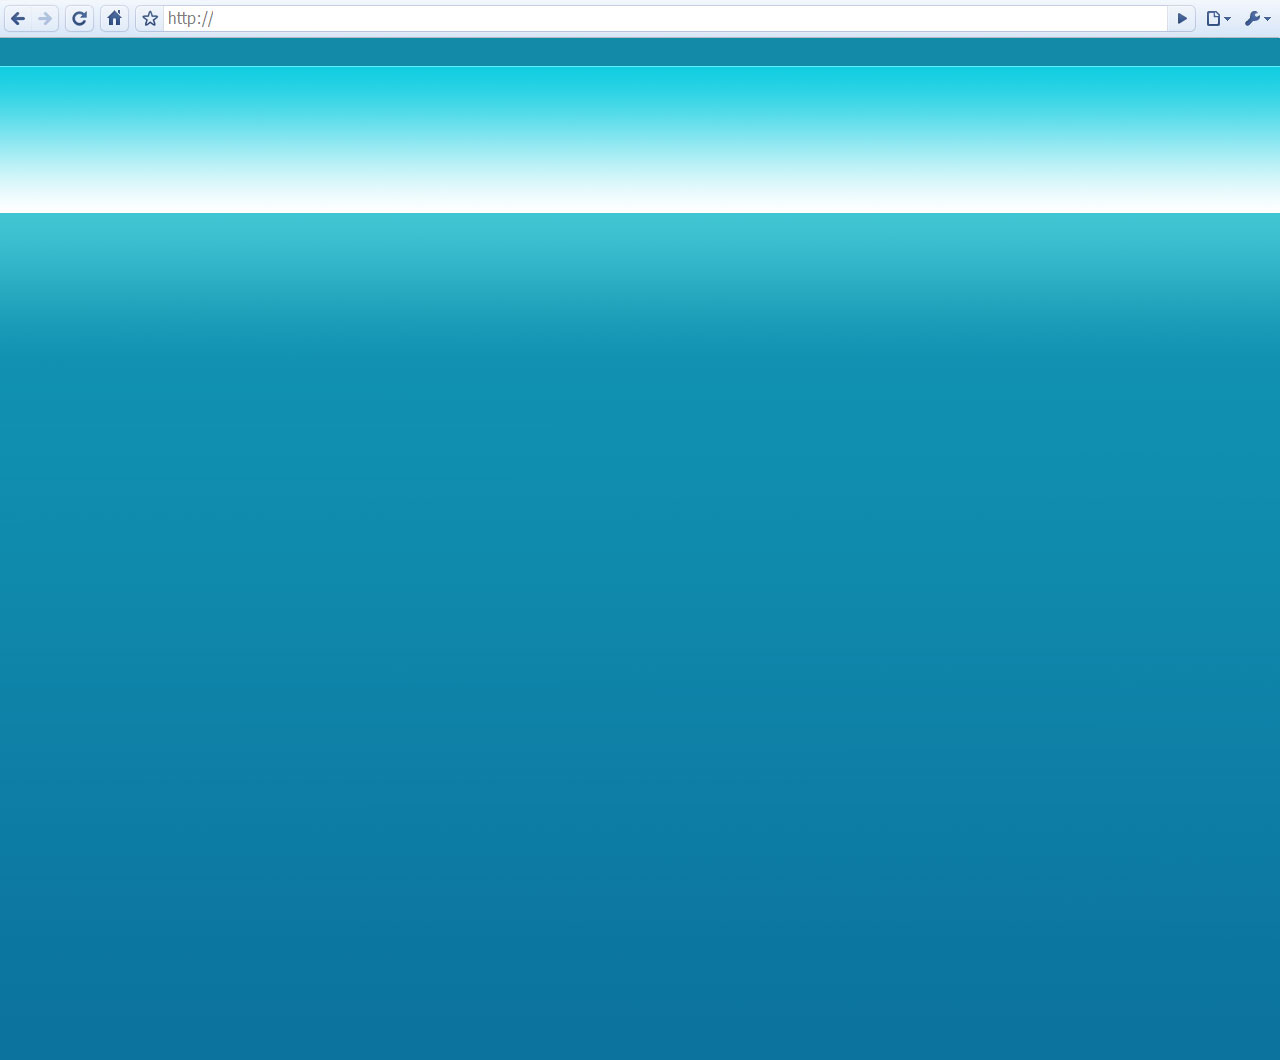
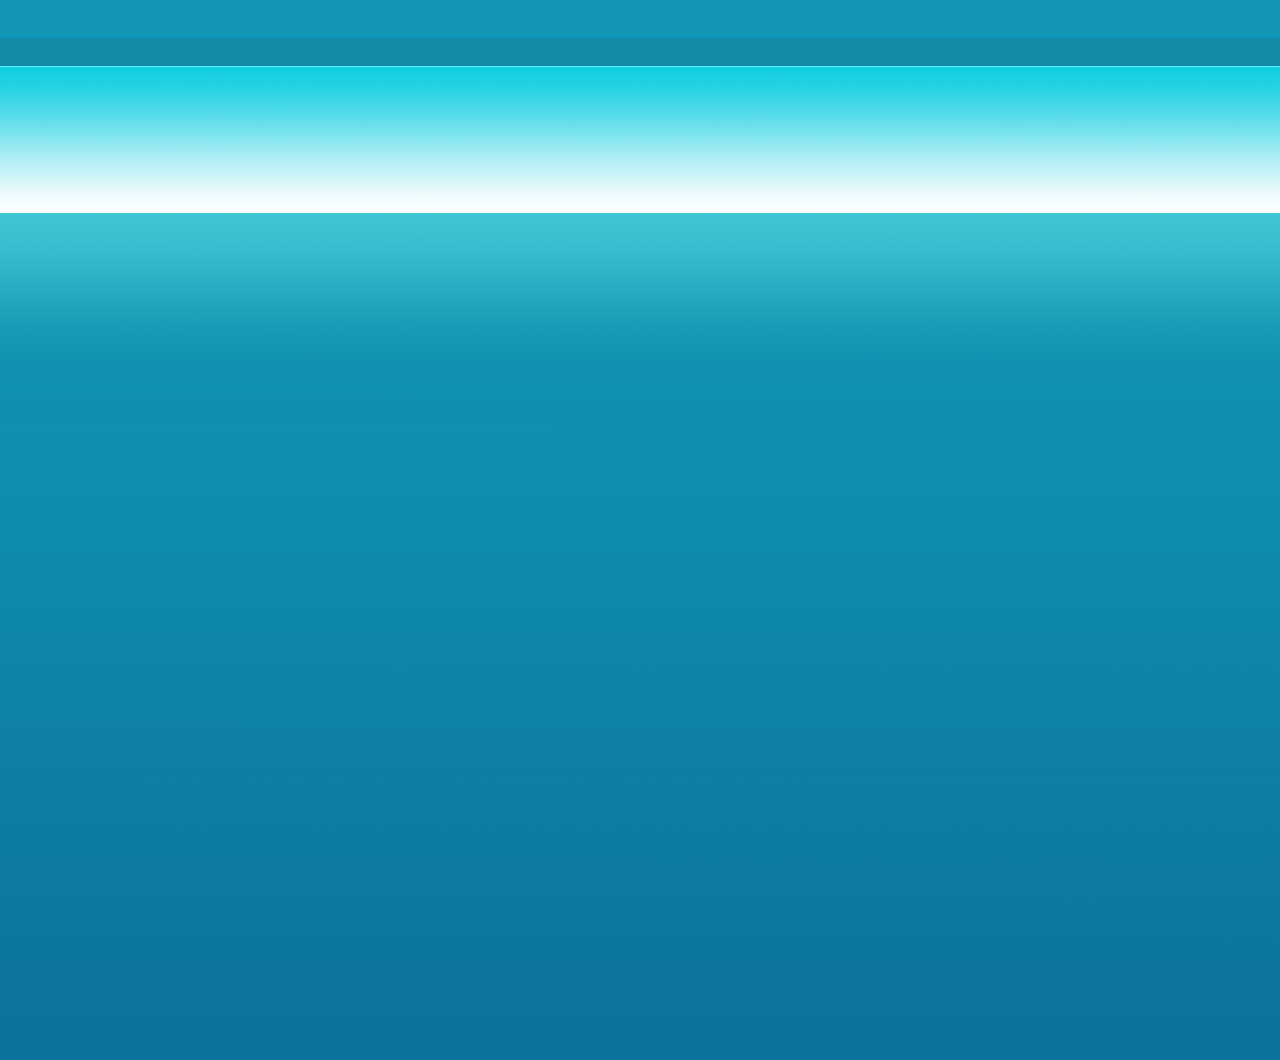
add task4

Changed region(s): [[0.0, 0.0, 1.0, 0.0623]]

diff --git a/GOIT/markup/home/Lesson4/css/style.css b/GOIT/markup/home/Lesson4/css/style.css
@@ -1,7 +1,8 @@
 /*фон окна*/
 body {
-    background: url("../img/fon.jpg") no-repeat ;
+    background: url("../img/fon.jpg")  ;
     background-position:top center;
+    width: 100%;
     height: 1060px;
 }
 /*fon center*/
